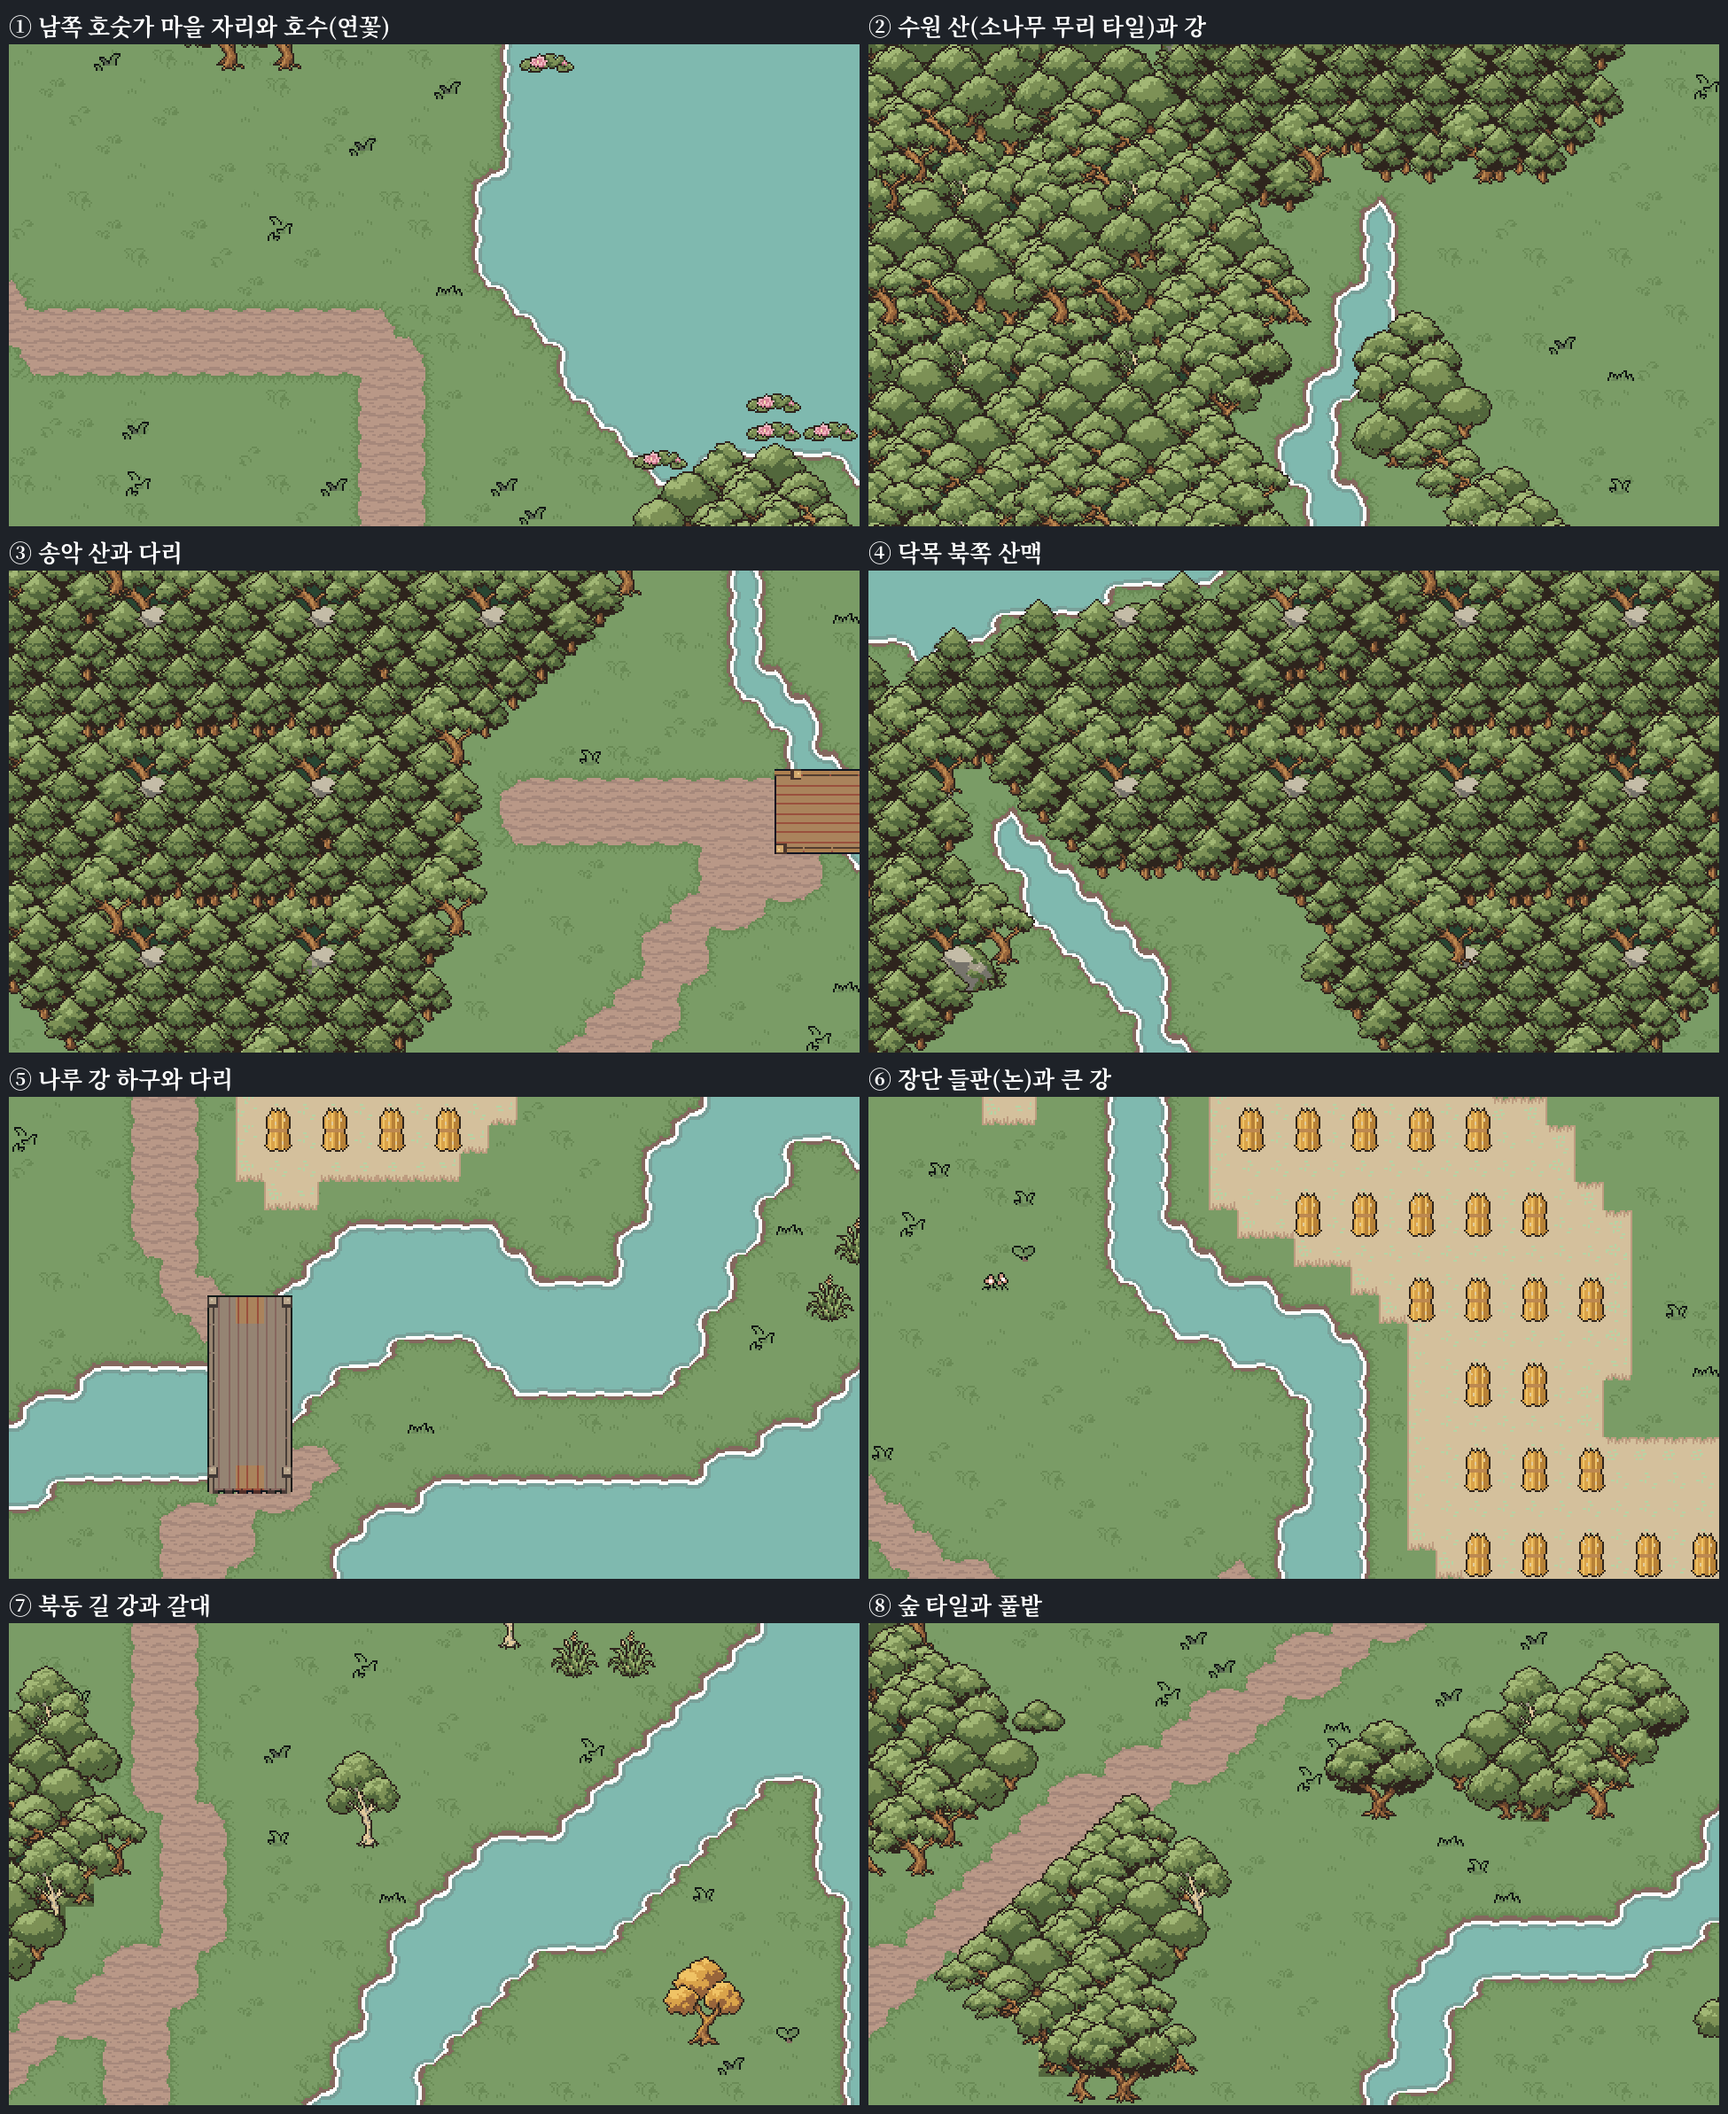
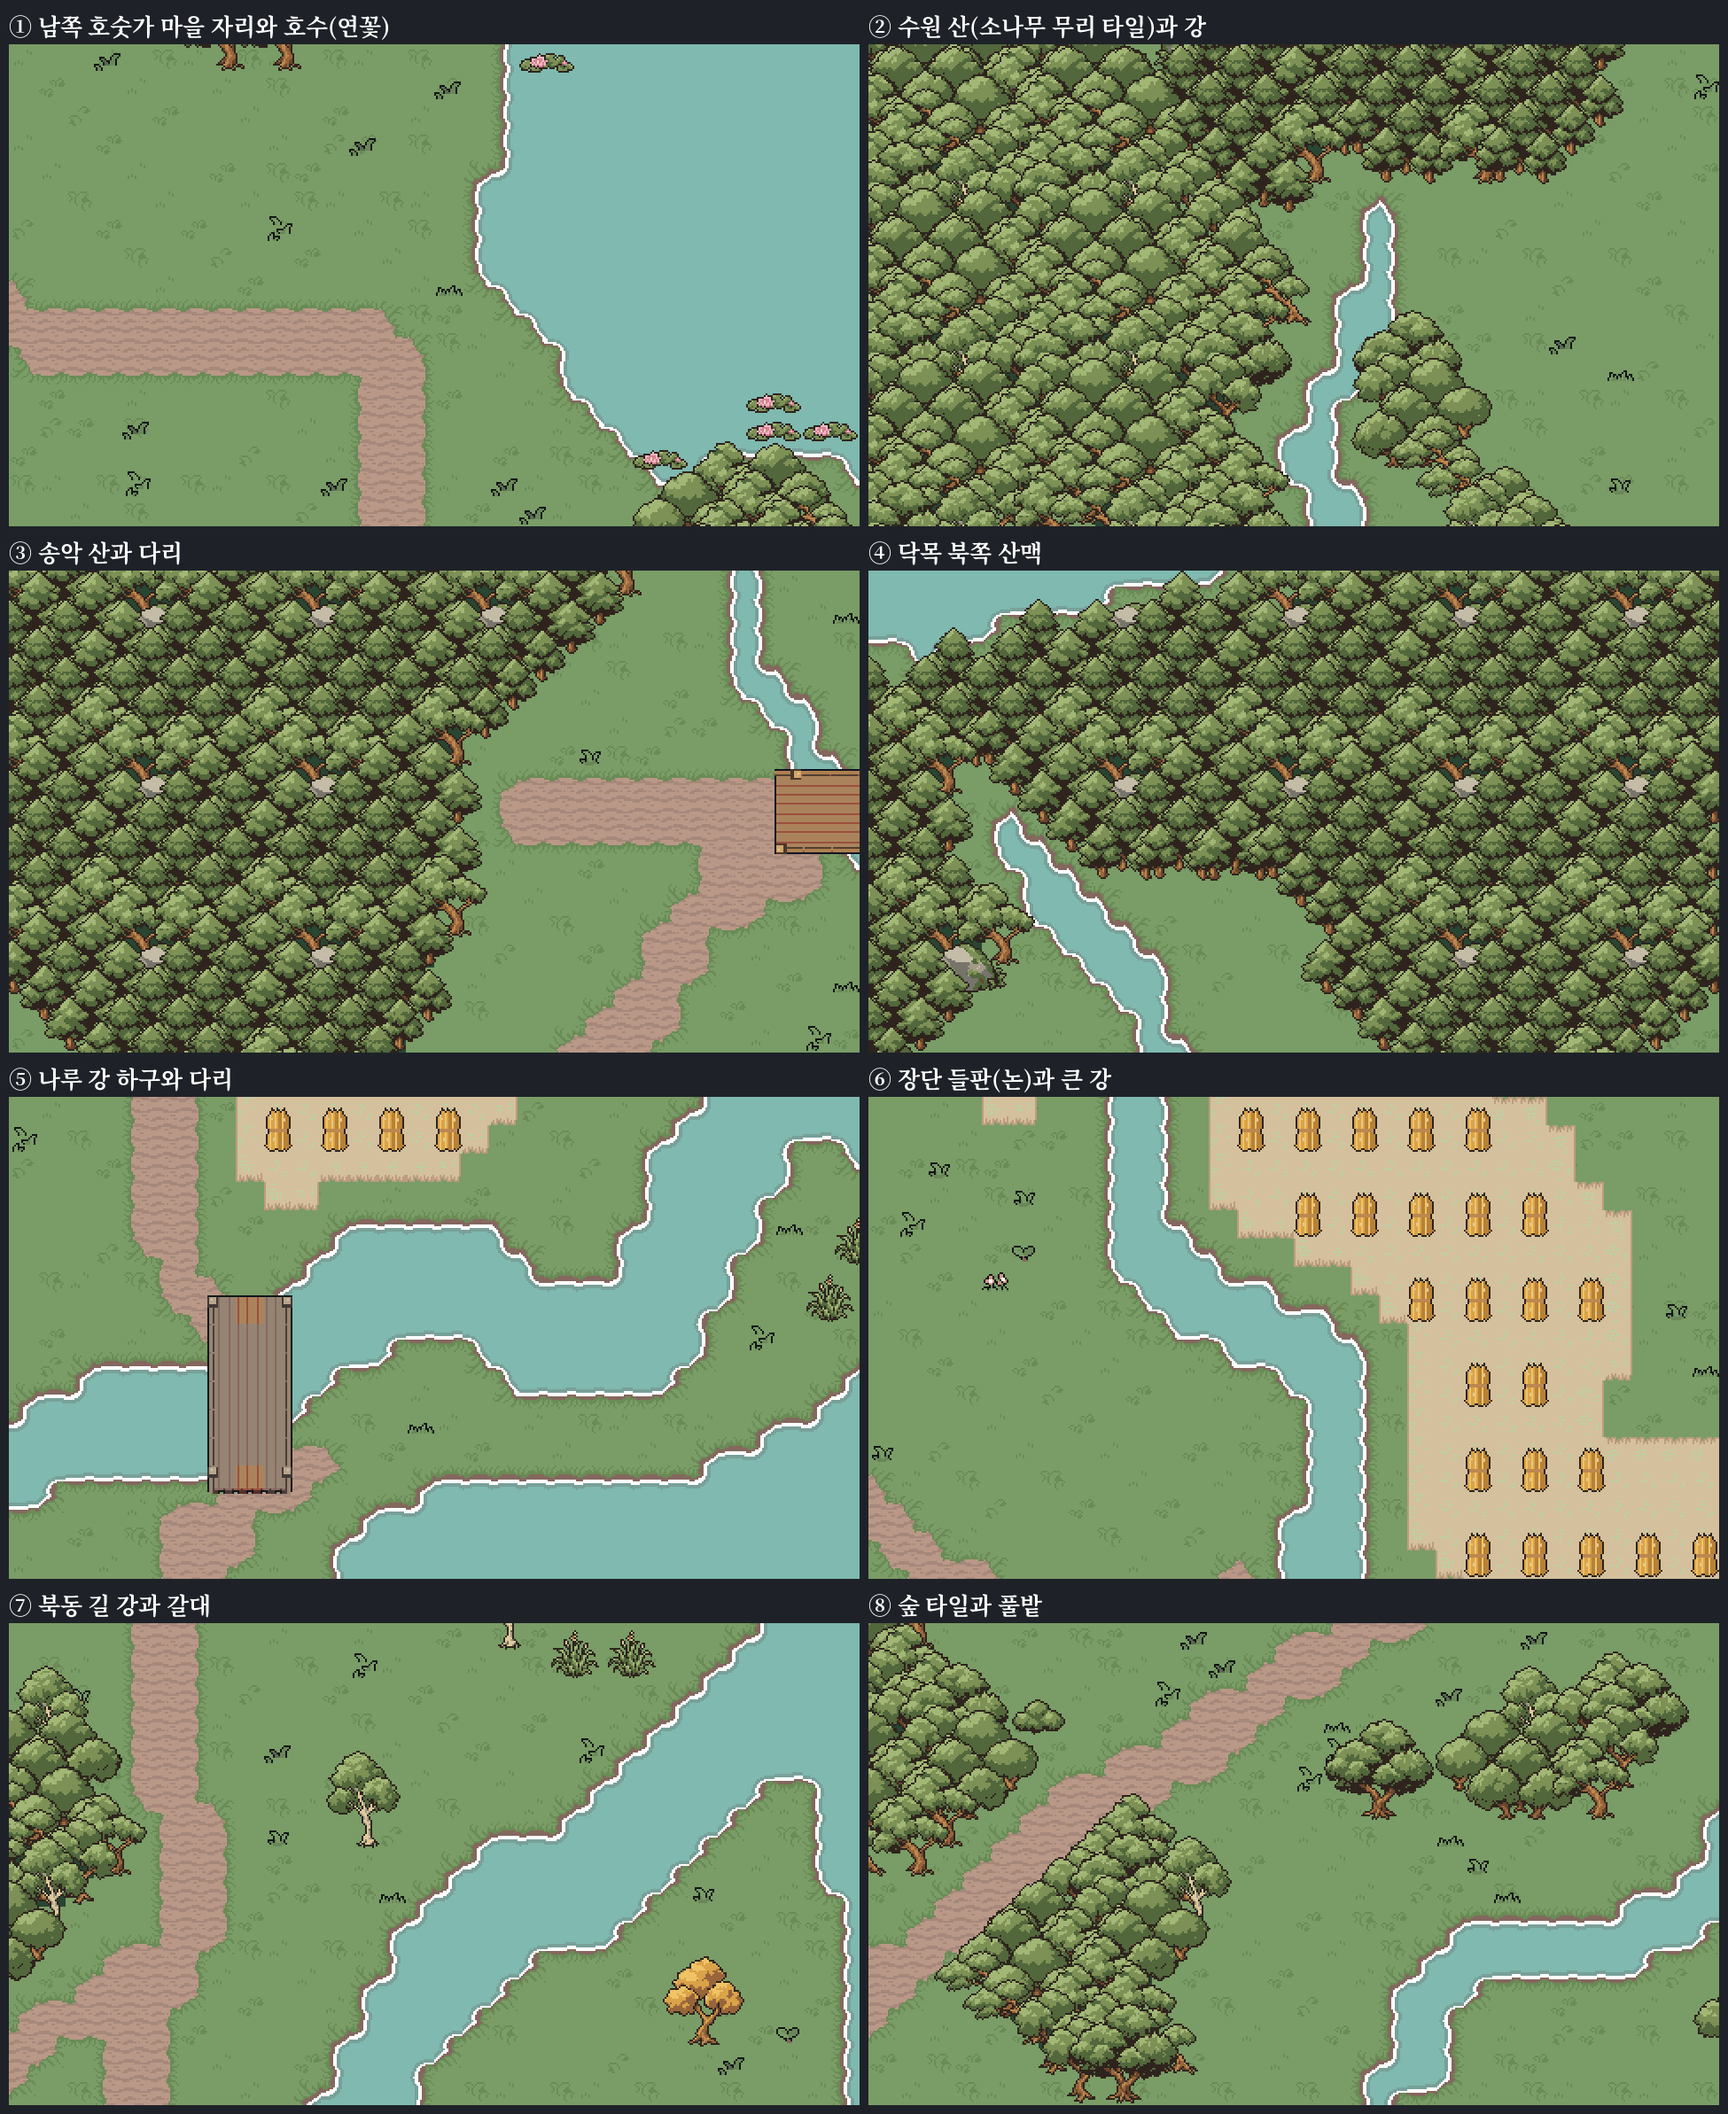
M1②: 숲 타일 겹침 순서 수정(밑동 줄 순서), 위·이어짐·아래 시작·좌우 가장자리 조각표
Claude-Session: https://claude.ai/code/session_01LeGdCGGAkPbpRa1d2kF6Yd

Changed region(s): [[0.6769, 0.2481, 0.9538, 0.4652], [0.4923, 0.031, 0.6769, 0.2171], [0.0308, 0.2791, 0.2154, 0.4342]]

diff --git a/Tools/WorldLayout/m1_tiles_preview.py b/Tools/WorldLayout/m1_tiles_preview.py
@@ -169,7 +169,7 @@ REEDS='tall_grass:2:2';LOTUS='lotus:2:1';SHEAF='harvest:3:2'
 P=6   # 숲 합성 블록 크기(칸). 이 블록이 반복되는 '숲 타일'
 FOREST_BLOCK=['forest_round:3:4','forest_bent:3:4','broadleaf:4:4','round_west:4:3','round_east:4:3','forest_wide:4:3','light_tree:3:4']
 MOUNT_BLOCK=['pine_west:4:3','pine_east:4:3','pine_west:4:3','pine_east:4:3','forest_bent:3:4','moss_rock:3:2']
-BLOCKS={}
+BLOCKS={};FMASK={}
 
 def clean(m,minsize):
     m=ndimage.binary_closing(ndimage.binary_opening(m),iterations=1)&m|ndimage.binary_opening(m)
@@ -196,12 +196,39 @@ def forest_block(kinds,seed):
     dark=[c for c,_ in C.Counter(px).most_common(40) if sum(c[:3])<240 and c[1]>c[0]]
     bg=dark[0] if dark else (40,70,50,255)
     blk=Image.new('RGBA',(P*T,P*T),bg)
-    for (y,x),k in sorted(lat.items()):
+    inst=sorted((y+oy,x+ox,k) for (y,x),k in lat.items() for oy in(-P,0,P) for ox in(-P,0,P))   # 감아 그린 것까지 밑동 줄 순서로
+    for y,x,k in inst:
         im=ims[k];sw,sh=im.width//T,im.height//T
-        for oy in(-P,0,P):
-            for ox in(-P,0,P):
-                blk.alpha_composite(im,((x-sw//2+ox)*T,(y-sh+1+oy)*T)) if (x-sw//2+ox)*T>=0 and (y-sh+1+oy)*T>=0 else _paste(blk,im,(x-sw//2+ox)*T,(y-sh+1+oy)*T)
-    return blk,lat
+        _paste(blk,im,(x-sw//2)*T,(y-sh+1)*T)
+    return blk,lat,bg
+
+def piece_sheet(kind,lat,bg):
+    """숲 타일 조각: 네모난 숲을 그려 가장자리별로 나눠 보여 준다.
+    위 가장자리(풀밭 위로 나온 나뭇잎), 이어지는 안쪽(P×P 반복), 아래 시작 부분(풀밭 위 밑동), 왼쪽·오른쪽 가장자리."""
+    m0,mx=4,3;Wc,Hc=3*P+2*mx,3*P+m0+2
+    im=Image.new('RGBA',(Wc*T,Hc*T))
+    for y in range(Hc):
+        for x in range(Wc):im.alpha_composite(tile('floor:0:12'),(x*T,y*T))
+    y0,y1,x0,x1=m0,m0+3*P-1,mx,mx+3*P-1
+    for y in range(y0,y1-1):
+        for x in range(x0+1,x1):im.paste(bg,(x*T,y*T,(x+1)*T,(y+1)*T))
+    inst=[]
+    for y in range(y0,y1+1):
+        for x in range(x0,x1+1):
+            k=lat.get(((y-y0)%P,(x-x0)%P))
+            if k:inst.append((y,x,k))
+    for y,x,k in sorted(inst):
+        s_=sprite(k);sw,sh=s_.width//T,s_.height//T;_paste(im,s_,(x-sw//2)*T,(y-sh+1)*T)
+    Z=2;big=Image.new('RGBA',(im.width*Z+300,im.height*Z),(30,34,40,255));big.paste(im.resize((im.width*Z,im.height*Z),Image.NEAREST),(0,0))
+    d=ImageDraw.Draw(big);f=ImageFont.truetype(str(v.FONT),22)
+    def band(r0,r1,c,label):
+        d.rectangle([2,r0*T*Z,im.width*Z-3,r1*T*Z],outline=c,width=3);d.text((im.width*Z+10,(r0*T*Z+r1*T*Z)//2-12),label,fill=c,font=f)
+    band(y0-3,y0,(255,230,80,255),'위 가장자리')
+    band(y0,y0+P,(120,220,140,255),'이어지는 부분')
+    band(y1-2,y1+1,(255,140,90,255),'아래 시작 부분')
+    for xx in(x0-2,x0+2,x1-1,x1+3):d.line([(xx*T*Z,y0*T*Z),(xx*T*Z,(y1-2)*T*Z)],fill=(120,200,255,255),width=2)
+    d.text((im.width*Z+10,(y0+P+3)*T*Z),'파란 선: 왼쪽·',fill=(120,200,255,255),font=f);d.text((im.width*Z+10,(y0+P+3)*T*Z+28),'오른쪽 가장자리',fill=(120,200,255,255),font=f)
+    return big
 
 def _paste(dst,im,x,y):
     sx,sy=max(0,-x),max(0,-y)
@@ -335,20 +362,22 @@ def main():
     for kind,ks,mask_ in (('mountain',MOUNT_BLOCK,cls(v.MOUNTAIN,v.PEAK)&land),('forest',FOREST_BLOCK,cls(v.FOREST)&land)):
         if kind in off:continue
         fm=clean(mask_&~near_road&~near_water&~occ,12)
-        blk,lat=forest_block(ks,seed=3 if kind=='forest' else 5)
-        inner=ndimage.binary_erosion(fm,iterations=1)
-        dist=ndimage.distance_transform_edt(fm)
-        for y,x in np.argwhere(inner):
-            img.alpha_composite(blk.crop(((x%P)*T,(y%P)*T,(x%P+1)*T,(y%P+1)*T)),(x*T,y*T))
+        blk,lat,bg=forest_block(ks,seed=3 if kind=='forest' else 5)
+        # 바탕(숲 그늘): 아래 2칸까지 숲인 칸만. 숲 맨 아래 줄은 풀밭 위에 밑동이 보인다(시작 부분).
+        below=np.zeros_like(fm);below[:-2]=fm[1:-1]&fm[2:]
+        under=ndimage.binary_erosion(fm,iterations=1)&below
+        for y,x in np.argwhere(under):img.paste(bg,(x*T,y*T,(x+1)*T,(y+1)*T))
+        FMASK[kind]=fm
+        # 나무는 모두 통째로, 밑동 줄 순서대로(뒤 나무 위에 앞 나무). 블록과 같은 자리라 안쪽은 숲 타일과 같은 그림이 된다.
         n=0
-        for y,x in np.argwhere(fm&(dist<=4)):
+        for y,x in np.argwhere(fm):
             k=lat.get((y%P,x%P))
             if k is None:continue
             nm,sw,sh=k.split(':');sw,sh=int(sw),int(sh);x0=x-sw//2;y0=y-sh+1
             if x0<0 or y0<0 or x0+sw>W:continue
             objs.append((y,x0,y0,k));n+=1
-        occ|=ndimage.binary_dilation(fm,iterations=1);counts[kind]=dict(cells=int(fm.sum()),edgeTrees=n)
-        BLOCKS[kind]=blk
+        occ|=ndimage.binary_dilation(fm,iterations=1);counts[kind]=dict(cells=int(fm.sum()),trees=n)
+        BLOCKS[kind]=(blk,lat,bg,ks)
     if 'hill' not in off:counts['hill']=scatter(cls(v.HILL)&free,TREES_HILL,.025,margin=1)
     if 'marsh' not in off:
         mm=np.isin(t,[v.MARSH])&own&land&~near_road
@@ -390,12 +419,14 @@ def main():
     rep['objects']=counts;rep['reviewBakedPieces']=BAKED_FOR_REVIEW
     OUT.mkdir(parents=True,exist_ok=True)
     sfx=('-no-'+'-'.join(sorted(off))) if off else ''
-    for k,b in BLOCKS.items():
-        b.save(OUT/f'block-{k}.png')   # 새 합성 '숲 타일' 원본(P×P칸, 승인 대기)
-        t2=Image.new('RGBA',(b.width*2,b.height*2))
-        for oy in(0,1):
-            for ox in(0,1):t2.paste(b,(ox*b.width,oy*b.height))
-        t2.resize((t2.width*3,t2.height*3),Image.NEAREST).save(OUT/f'block-{k}-tiled.png')
+    for k,(b,lat,bg,ks) in BLOCKS.items():
+        b.save(OUT/f'block-{k}.png')
+        piece_sheet(k,lat,bg).save(OUT/f'pieces-{k}.png')
+    # 타일로 나누면 몇 종류가 되는지(숲이 걸친 칸을 16px로 잘라 같은 그림끼리 묶음)
+    for k,fm in FMASK.items():
+        area=ndimage.binary_dilation(fm,iterations=3)&own;uniq=set()
+        for y,x in np.argwhere(area):uniq.add(img.crop((x*T,y*T,(x+1)*T,(y+1)*T)).tobytes())
+        rep.setdefault('forestUniqueTiles',{})[k]=dict(cells=int(area.sum()),unique=len(uniq))
     img.convert('RGB').save(OUT/f'world-full{sfx}.png')
     img.resize((W*T//4,H*T//4),Image.BOX).convert('RGB').save(OUT/f'world{sfx}.png')
     # 게임 크기 화면(480×270 = 30×17칸) — 세계 좌표(칸) 중심

diff --git a/ArtReview/M1-Tiles/README.md b/ArtReview/M1-Tiles/README.md
@@ -7,7 +7,7 @@ Codex의 새 지형 타일 14종은 은샘 지시로 모두 폐기했다(기존 
 
 - 바닥은 세 가지 조립 타일만: 풀밭, 물(바다·강·호수), 흙길. 다리는 기존 판자. 색은 고려 맵의 goryeo_jade.
 - 기존 조각만으로 그려지게 물·길 모양을 다듬는다: 모든 칸이 2×2 덩어리에 속하고, 두 옆 칸이 같으면 대각선도 같게. 이 때문에 가는 개울이 2칸으로 넓어진다(물 +148칸, 길 +191칸). 남은 어긋난 칸: 물 4, 길 2.
-- 숲·산은 '숲 타일'로 칠한다: 승인된 C7 나무 그림을 빽빽하게 겹쳐 6×6칸 반복 블록을 만들고(가장자리가 이어지게 감아 그림, `block-forest.png`, `block-mountain.png`), 숲 안쪽을 이 블록으로 채운다. 가장자리 4칸은 블록과 같은 자리의 나무를 통째로 다시 그려 숲 윤곽이 나무 모양을 따른다. 두 블록은 새 합성 에셋이라 승인 대기다.
+- 숲·산은 '숲 타일'로 칠한다: 승인된 C7 나무 그림을 6×6칸 자리표에 빽빽하게 놓은 반복 무늬. 나무는 밑동 줄 순서대로 겹친다(앞 나무가 뒤 나무를 가림). 조각은 `pieces.png`: 위 가장자리(풀밭 위로 나온 잎), 이어지는 부분(6×6 반복, `block-*.png`), 아래 시작 부분(풀밭 위 밑동), 왼쪽·오른쪽 가장자리. 실제 숲 모양에 맞춰 16px로 나누면 숲 1,306종·산 547종 칸이 나온다(report.json forestUniqueTiles). 새 합성 에셋이라 승인 대기.
 - 들판은 기존 볏짚 바닥 3×3 조각(element 13~15, 4~6)을 9칸 조립으로 이어 붙여 한 덩어리로 칠하고, 승인 볏단(sheaf_jangdan)을 줄지어 세운다. 안쪽 모서리 조각이 없어 오목한 모서리는 가운데 조각으로 채운다.
 - 다리는 지금 게임의 목조 다리 조각(water 0~2 × 12~14 wood/woodturn + 난간)을 강을 가장 짧게 건너는 방향으로 3칸 폭으로 놓는다. 물 위 길은 다리 말고는 없다.
 - 언덕=덤불·작은 바위·드문 나무, 습지=tall_grass, 호숫가=lotus, 풀밭=외딴 나무(C7 그림). 풀포기·꽃은 기존 바닥 소품 타일.
